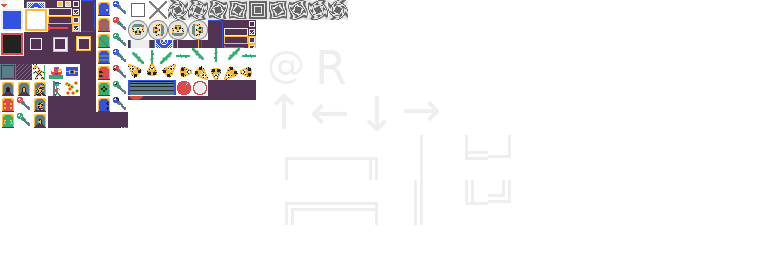
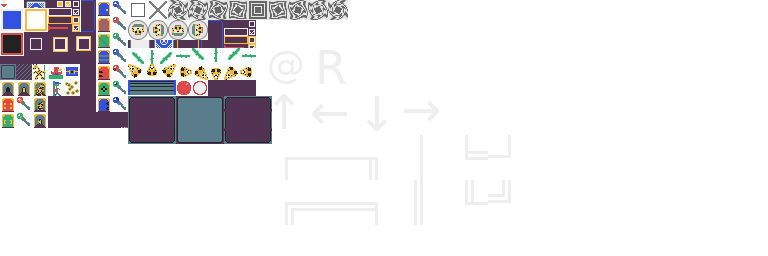
Start on tile graphics for S.W.O.R.D. and end up writing a long comment

Changed region(s): [[0.1562, 0.375, 0.375, 0.5625]]

diff --git a/libs/sword/src/sword.rs b/libs/sword/src/sword.rs
@@ -7,6 +7,58 @@ use xs::Xs;
 
 use std::collections::BTreeMap;
 
+/*
+    Notes on wall/floor tiles and their various edge types:
+
+    There are tiles that cannot be walked on, called wall tiles,
+    and there are ones that can be walked on, called floor tiles.
+
+    We want to have interesting looking edges between wall tiles
+    and floor tiles, including visible corners, while ultimately
+    rendering things in tiles that abut each other exactly.
+
+    Another property we want is to not have any disconnected edges
+    of the patterns on the tiles. Said another way, for any two
+    possible tiles at positions (X, Y) and (X + 2, Y), a tile must
+    exist to place at position (X + 1, Y) that lines up with the
+    relevant edges of the first two tiles. This applies not just
+    for (X, Y) and (X + 2, Y), but for any pair of tile that are
+    two orthogonal steps away from each other, and all the tiles
+    one can cross using those two steps. For example, there must
+    be tiles placeable to connect (X, Y) and (X - 1, Y + 1), at
+    both (X - 1, Y) and (X, Y + 1).
+
+    We have thus far declined to implement rotation in the
+    renderer, so we need distinct tiles for each possible rotation.
+    (Possibly this aspect will cause us to decide to actually
+    implement rotation.)
+
+    There are two types of tile, as mentioend before: wall and floor.
+    The edges of a tile are determined by the type of its eight
+    neighbors, and the type of the tile itself. This is nine bits of
+    possible variance and thus 512 distinct tiles!
+
+    It seems plausible that some kind of pattern would emerge that
+    makes a smaller number of tiles work, even without rotation, but
+    it's not clear at this time.
+
+    A data structure for an index into these tiles seems clear though:
+    ```
+    type NeighborMask = u8;
+
+    enum TileSpriteIndex {
+        Wall(NeighborMask),
+        Floor(NeighborMask),
+    }
+    ```
+
+    So one path to investigate this, without actually making 512
+    separate tiles, would be to make the space for them, then write the
+    indexing code, and then attempt to render the 512 apparently separate
+    tiles in a test, filling them in as needed, and see if any turn out
+    to be the same.
+*/
+
 pub mod xy {
     type Inner = u8;
 
@@ -23,7 +75,7 @@ pub mod xy {
                     pub fn dec(&self) -> Self {
                         Self(self.0.saturating_sub(1))
                     }
-    
+
                     pub fn inc(&self) -> Self {
                         Self(self.0.saturating_add(1))
                     }
@@ -307,7 +359,7 @@ impl State {
             );
             offset += 1;
         }
-        
+
 
         let mut tiles = vec1![
             // Placeholder for once we have the various corner and edge tiles set up
@@ -341,7 +393,7 @@ impl State {
     fn tick(&mut self) {
         //
         // Advance timers
-        // 
+        //
 
         for entity in self.all_entities_mut() {
             entity.position.decay();
@@ -379,7 +431,7 @@ impl State {
         let tile_h = tile.h;
 
         let mut draw_at_position_pieces = |xy: XY, offset_xy, tile_sprite| {
-            let base_xy = unscaled::XY {                
+            let base_xy = unscaled::XY {
                 x: unscaled::X(unscaled::Inner::from(xy.x.0) * tile_w.get()),
                 y: unscaled::Y(unscaled::Inner::from(xy.y.0) * tile_h.get())
             };
